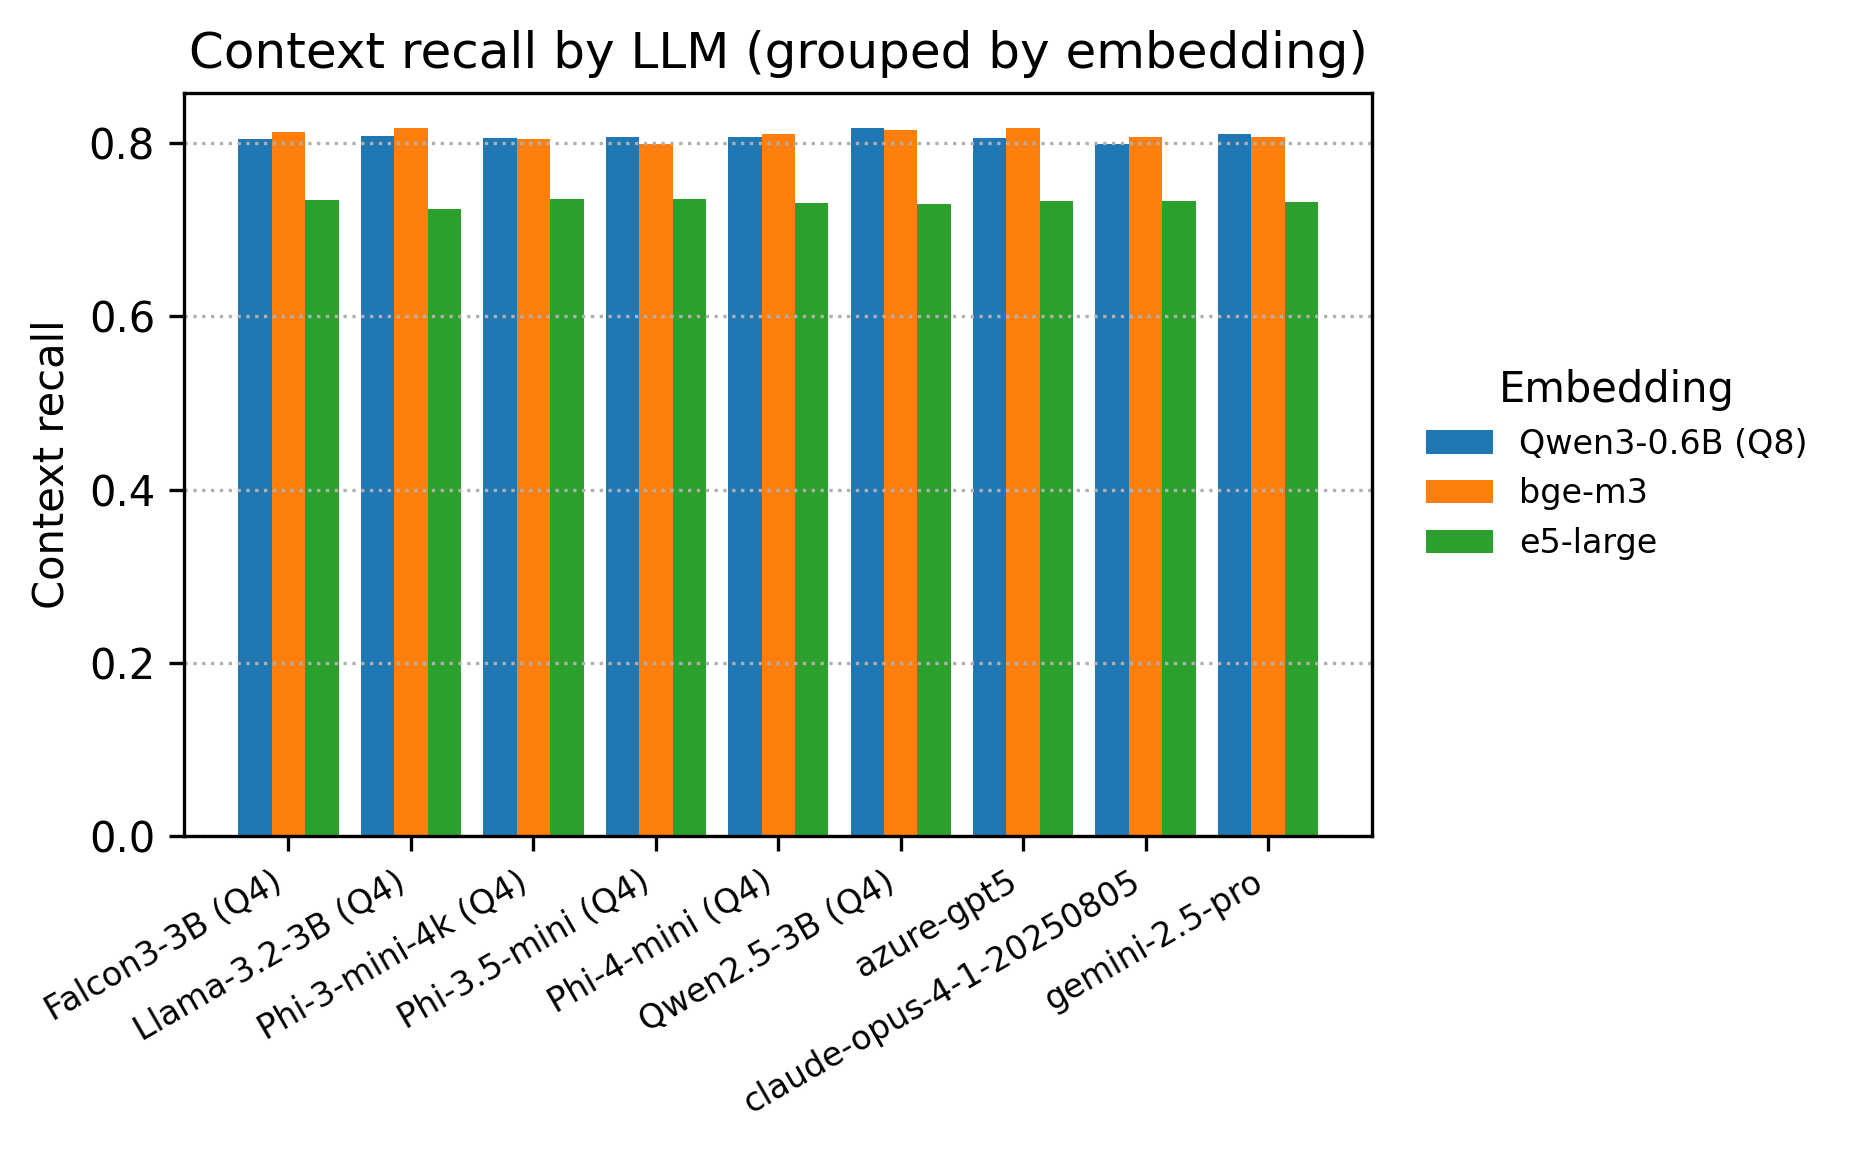
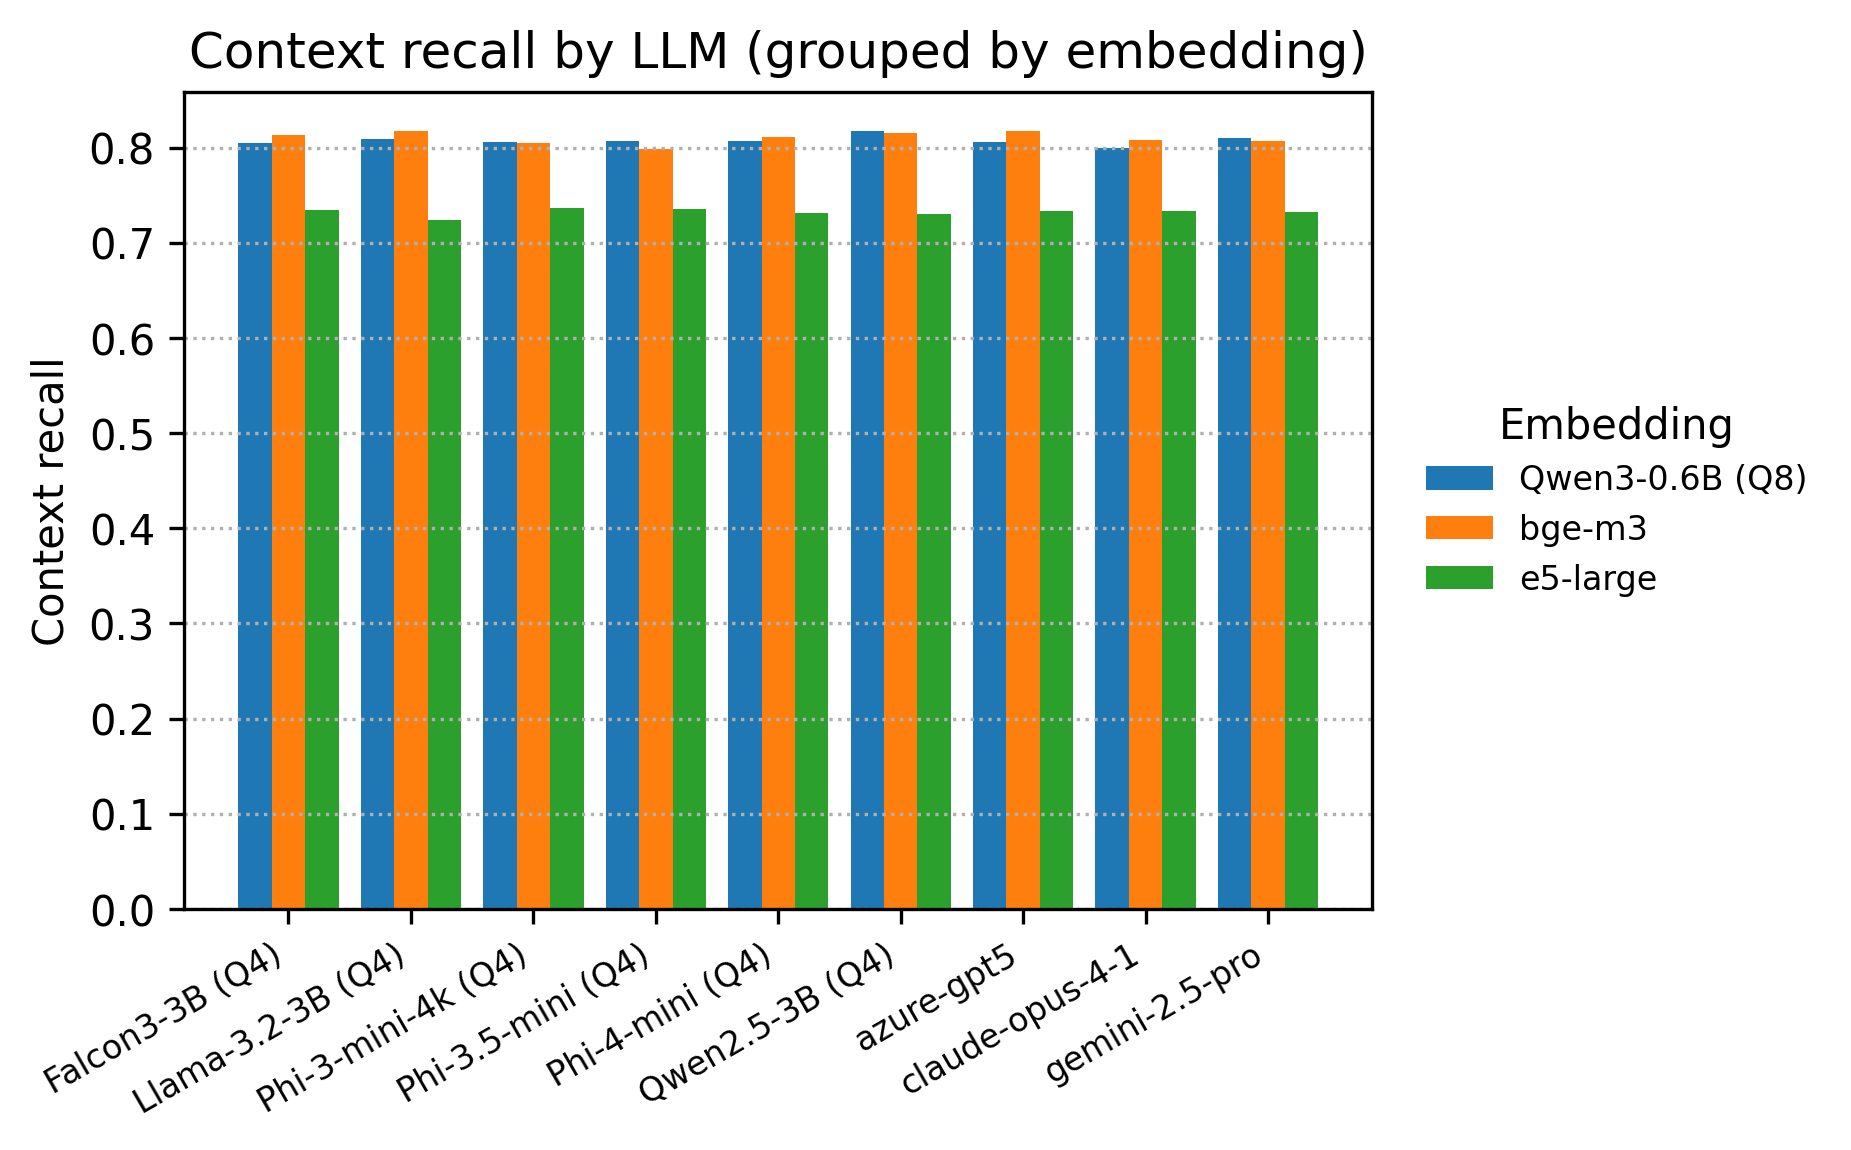
trimmed claude to claude-opus-4.1

diff --git a/results/benchmarking/20250913_170609/figures/rank_summary.html b/results/benchmarking/20250913_170609/figures/rank_summary.html
@@ -5,7 +5,7 @@
 <tr><td style='text-align:right'>4</td><td>e5-large | Llama-3.2-3B (Q4)</td><td style='text-align:right'>0.678</td><td style='text-align:right'>0.879</td><td style='text-align:right'>0.457</td><td style='text-align:right'>0.724</td><td style='text-align:right'>0.699</td><td></td><td></td><td></td><td></td></tr>
 <tr><td style='text-align:right'>5</td><td>e5-large | Qwen2.5-3B (Q4)</td><td style='text-align:right'>0.731</td><td style='text-align:right'>0.832</td><td style='text-align:right'>0.455</td><td style='text-align:right'>0.730</td><td style='text-align:right'>0.706</td><td></td><td></td><td></td><td></td></tr>
 <tr><td style='text-align:right'>6</td><td>e5-large | Phi-3.5-mini (Q4)</td><td style='text-align:right'>0.733</td><td style='text-align:right'>0.833</td><td style='text-align:right'>0.451</td><td style='text-align:right'>0.736</td><td style='text-align:right'>0.707</td><td></td><td></td><td></td><td></td></tr>
-<tr><td style='text-align:right'>7</td><td>e5-large | claude-opus-4-1-20250805</td><td style='text-align:right'>0.911</td><td style='text-align:right'>0.594</td><td style='text-align:right'>0.462</td><td style='text-align:right'>0.733</td><td style='text-align:right'>0.708</td><td></td><td></td><td></td><td></td></tr>
+<tr><td style='text-align:right'>7</td><td>e5-large | claude-opus-4-1</td><td style='text-align:right'>0.911</td><td style='text-align:right'>0.594</td><td style='text-align:right'>0.462</td><td style='text-align:right'>0.733</td><td style='text-align:right'>0.708</td><td></td><td></td><td></td><td></td></tr>
 <tr><td style='text-align:right'>8</td><td>Qwen3-0.6B (Q8) | gemini-2.5-pro</td><td style='text-align:right'>0.821</td><td style='text-align:right'>0.631</td><td style='text-align:right'>0.561</td><td style='text-align:right'>0.810</td><td style='text-align:right'>0.711</td><td></td><td></td><td></td><td>🔺</td></tr>
 <tr><td style='text-align:right'>9</td><td>bge-m3 | gemini-2.5-pro</td><td style='text-align:right'>0.834</td><td style='text-align:right'>0.621</td><td style='text-align:right'>0.556</td><td style='text-align:right'>0.807</td><td style='text-align:right'>0.712</td><td></td><td></td><td></td><td>🔺</td></tr>
 <tr><td style='text-align:right'>10</td><td>e5-large | azure-gpt5</td><td style='text-align:right'>0.874</td><td style='text-align:right'>0.690</td><td style='text-align:right'>0.465</td><td style='text-align:right'>0.733</td><td style='text-align:right'>0.723</td><td></td><td></td><td></td><td></td></tr>
@@ -18,8 +18,8 @@
 <tr><td style='text-align:right'>17</td><td>bge-m3 | Phi-3-mini-4k (Q4)</td><td style='text-align:right'>0.765</td><td style='text-align:right'>0.861</td><td style='text-align:right'>0.542</td><td style='text-align:right'>0.804</td><td style='text-align:right'>0.753</td><td></td><td></td><td></td><td>🔺</td></tr>
 <tr><td style='text-align:right'>18</td><td>Qwen3-0.6B (Q8) | Phi-3-mini-4k (Q4)</td><td style='text-align:right'>0.780</td><td style='text-align:right'>0.851</td><td style='text-align:right'>0.531</td><td style='text-align:right'>0.806</td><td style='text-align:right'>0.754</td><td></td><td></td><td></td><td>🔺</td></tr>
 <tr><td style='text-align:right'>19</td><td>Qwen3-0.6B (Q8) | Llama-3.2-3B (Q4)</td><td style='text-align:right'>0.743</td><td style='text-align:right'>0.902</td><td style='text-align:right'>0.552</td><td style='text-align:right'>0.809</td><td style='text-align:right'>0.759</td><td></td><td></td><td></td><td>🔺</td></tr>
-<tr><td style='text-align:right'>20</td><td>bge-m3 | claude-opus-4-1-20250805</td><td style='text-align:right'>0.931</td><td style='text-align:right'>0.650</td><td style='text-align:right'>0.562</td><td style='text-align:right'>0.807</td><td style='text-align:right'>0.761</td><td>🔺</td><td></td><td></td><td>🔺</td></tr>
-<tr><td style='text-align:right'>21</td><td>Qwen3-0.6B (Q8) | claude-opus-4-1-20250805</td><td style='text-align:right'>0.934</td><td style='text-align:right'>0.667</td><td style='text-align:right'>0.559</td><td style='text-align:right'>0.799</td><td style='text-align:right'>0.765</td><td>✅</td><td></td><td></td><td></td></tr>
+<tr><td style='text-align:right'>20</td><td>bge-m3 | claude-opus-4-1</td><td style='text-align:right'>0.931</td><td style='text-align:right'>0.650</td><td style='text-align:right'>0.562</td><td style='text-align:right'>0.807</td><td style='text-align:right'>0.761</td><td>🔺</td><td></td><td></td><td>🔺</td></tr>
+<tr><td style='text-align:right'>21</td><td>Qwen3-0.6B (Q8) | claude-opus-4-1</td><td style='text-align:right'>0.934</td><td style='text-align:right'>0.667</td><td style='text-align:right'>0.559</td><td style='text-align:right'>0.799</td><td style='text-align:right'>0.765</td><td>✅</td><td></td><td></td><td></td></tr>
 <tr><td style='text-align:right'>22</td><td>bge-m3 | Qwen2.5-3B (Q4)</td><td style='text-align:right'>0.802</td><td style='text-align:right'>0.896</td><td style='text-align:right'>0.534</td><td style='text-align:right'>0.815</td><td style='text-align:right'>0.778</td><td></td><td></td><td></td><td>🔺</td></tr>
 <tr><td style='text-align:right'>23</td><td>Qwen3-0.6B (Q8) | azure-gpt5</td><td style='text-align:right'>0.922</td><td style='text-align:right'>0.738</td><td style='text-align:right'>0.562</td><td style='text-align:right'>0.806</td><td style='text-align:right'>0.783</td><td>🔺</td><td></td><td></td><td>🔺</td></tr>
 <tr><td style='text-align:right'>24</td><td>Qwen3-0.6B (Q8) | Falcon3-3B (Q4)</td><td style='text-align:right'>0.807</td><td style='text-align:right'>0.902</td><td style='text-align:right'>0.548</td><td style='text-align:right'>0.805</td><td style='text-align:right'>0.783</td><td></td><td></td><td></td><td>🔺</td></tr>

diff --git a/src/benchmarking/plot_rag_results.py b/src/benchmarking/plot_rag_results.py
@@ -65,6 +65,8 @@ def _normalize_llm_name(name: str) -> str:
         n = n[len("ollama_") :]
     if n.startswith("hf.co_"):
         n = n[len("hf.co_") :]
+    # Remove date suffixes (e.g., "20250805" from "claude-opus-4-1-20250805")
+    n = re.sub(r"-\d{8}$", "", n)
     # Convert the first underscore into a path separator for readability
     if "_" in n:
         parts = n.split("_", 1)

diff --git a/results/benchmarking/20250913_170609/figures/rank_summary.md b/results/benchmarking/20250913_170609/figures/rank_summary.md
@@ -6,7 +6,7 @@
 | 4 | e5-large | Llama-3.2-3B (Q4) | 0.678 | 0.879 | 0.457 | 0.724 | 0.699 |  |  |  |  |
 | 5 | e5-large | Qwen2.5-3B (Q4) | 0.731 | 0.832 | 0.455 | 0.730 | 0.706 |  |  |  |  |
 | 6 | e5-large | Phi-3.5-mini (Q4) | 0.733 | 0.833 | 0.451 | 0.736 | 0.707 |  |  |  |  |
-| 7 | e5-large | claude-opus-4-1-20250805 | 0.911 | 0.594 | 0.462 | 0.733 | 0.708 |  |  |  |  |
+| 7 | e5-large | claude-opus-4-1 | 0.911 | 0.594 | 0.462 | 0.733 | 0.708 |  |  |  |  |
 | 8 | Qwen3-0.6B (Q8) | gemini-2.5-pro | 0.821 | 0.631 | 0.561 | 0.810 | 0.711 |  |  |  | 🔺 |
 | 9 | bge-m3 | gemini-2.5-pro | 0.834 | 0.621 | 0.556 | 0.807 | 0.712 |  |  |  | 🔺 |
 | 10 | e5-large | azure-gpt5 | 0.874 | 0.690 | 0.465 | 0.733 | 0.723 |  |  |  |  |
@@ -19,8 +19,8 @@
 | 17 | bge-m3 | Phi-3-mini-4k (Q4) | 0.765 | 0.861 | 0.542 | 0.804 | 0.753 |  |  |  | 🔺 |
 | 18 | Qwen3-0.6B (Q8) | Phi-3-mini-4k (Q4) | 0.780 | 0.851 | 0.531 | 0.806 | 0.754 |  |  |  | 🔺 |
 | 19 | Qwen3-0.6B (Q8) | Llama-3.2-3B (Q4) | 0.743 | 0.902 | 0.552 | 0.809 | 0.759 |  |  |  | 🔺 |
-| 20 | bge-m3 | claude-opus-4-1-20250805 | 0.931 | 0.650 | 0.562 | 0.807 | 0.761 | 🔺 |  |  | 🔺 |
-| 21 | Qwen3-0.6B (Q8) | claude-opus-4-1-20250805 | 0.934 | 0.667 | 0.559 | 0.799 | 0.765 | ✅ |  |  |  |
+| 20 | bge-m3 | claude-opus-4-1 | 0.931 | 0.650 | 0.562 | 0.807 | 0.761 | 🔺 |  |  | 🔺 |
+| 21 | Qwen3-0.6B (Q8) | claude-opus-4-1 | 0.934 | 0.667 | 0.559 | 0.799 | 0.765 | ✅ |  |  |  |
 | 22 | bge-m3 | Qwen2.5-3B (Q4) | 0.802 | 0.896 | 0.534 | 0.815 | 0.778 |  |  |  | 🔺 |
 | 23 | Qwen3-0.6B (Q8) | azure-gpt5 | 0.922 | 0.738 | 0.562 | 0.806 | 0.783 | 🔺 |  |  | 🔺 |
 | 24 | Qwen3-0.6B (Q8) | Falcon3-3B (Q4) | 0.807 | 0.902 | 0.548 | 0.805 | 0.783 |  |  |  | 🔺 |
